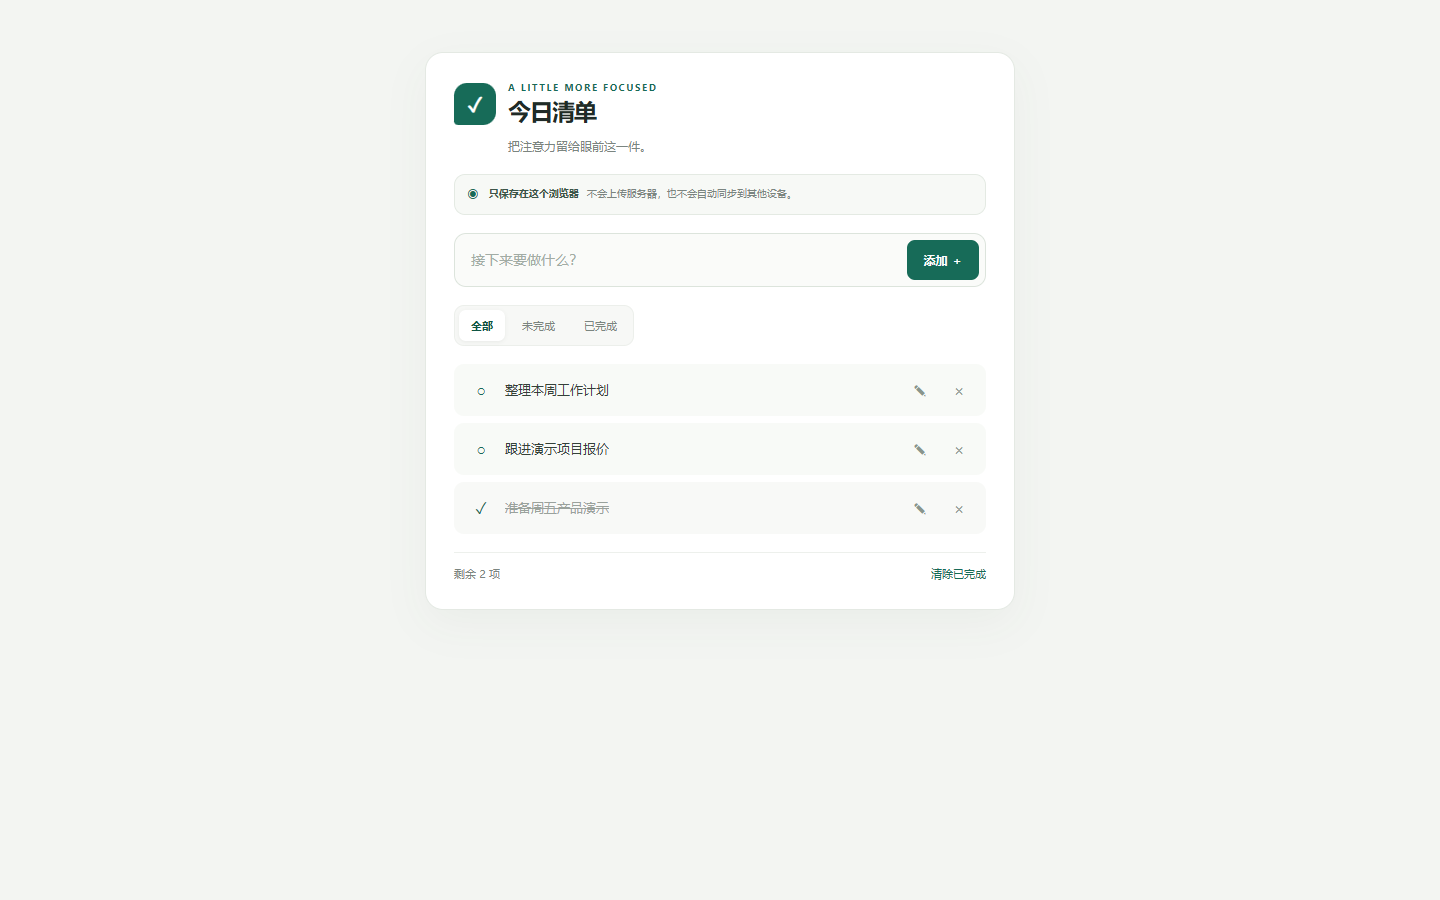
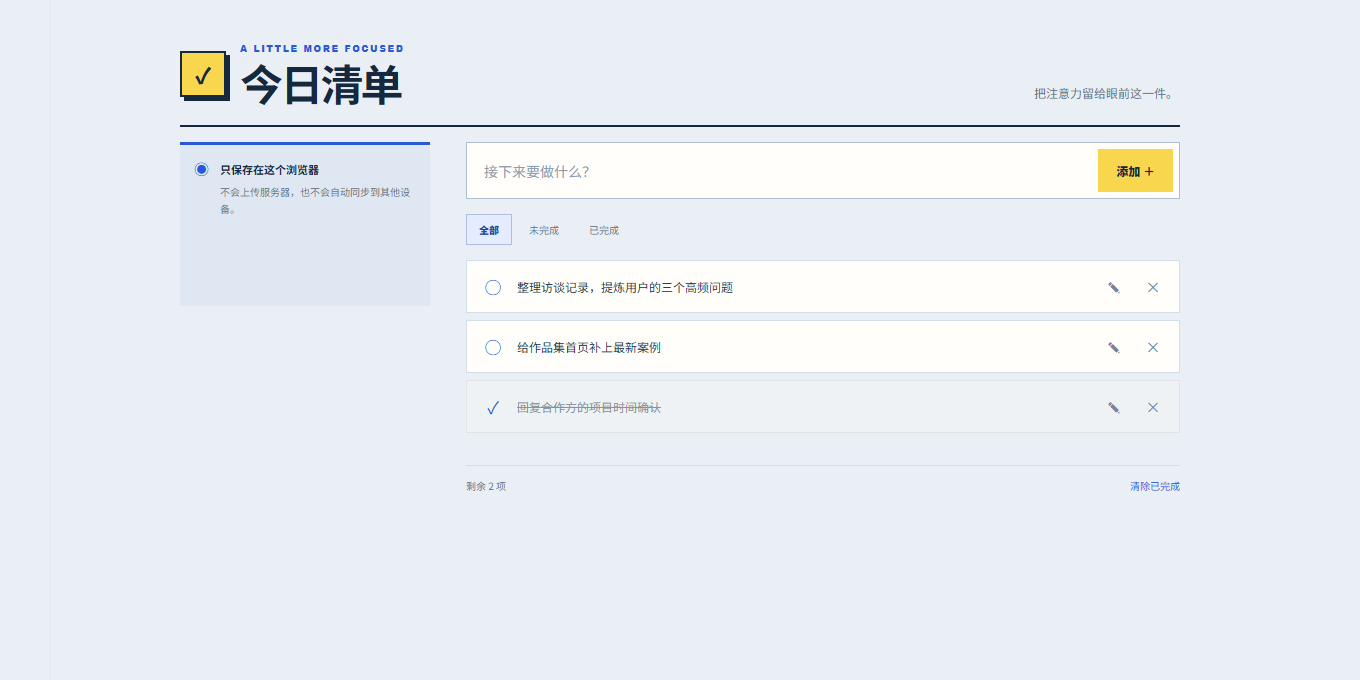
Redesign daily todo workspace

diff --git a/style.css b/style.css
@@ -1,73 +1,91 @@
 :root {
-    --ink: #202b27;
-    --muted: #7b8580;
-    --line: #e4e9e3;
-    --paper: #fff;
-    --canvas: #f3f5f2;
-    --green: #176b58;
-    --green-deep: #105543;
-    --green-pale: #edf5ef;
-    --red: #b84d43;
-    font-family: -apple-system, BlinkMacSystemFont, "PingFang SC", "Microsoft YaHei", "Segoe UI", sans-serif;
+  --ink: #15293e;
+  --muted: #66778a;
+  --line: #d4deea;
+  --paper: #fffefa;
+  --canvas: #e9eff5;
+  --blue: #2859d7;
+  --blue-dark: #173f9f;
+  --blue-pale: #e5ecff;
+  --lemon: #f8d64e;
+  --red: #ac463d;
+  font-family: "Noto Sans SC", "PingFang SC", "Microsoft YaHei", sans-serif;
 }
-
 * { box-sizing: border-box; margin: 0; padding: 0; }
-body { min-height: 100vh; padding: 52px 18px; background: var(--canvas); color: var(--ink); -webkit-font-smoothing: antialiased; }
+body {
+  min-height: 100vh; padding: 42px 26px; color: var(--ink); -webkit-font-smoothing: antialiased;
+  background:
+    linear-gradient(90deg, transparent 0 49px, #2859d70a 50px, transparent 51px),
+    var(--canvas);
+}
 button, input { font: inherit; }
-button:focus-visible, input:focus-visible { outline: 3px solid #9ac6b2; outline-offset: 2px; }
-.container { width: min(590px, 100%); margin: 0 auto; padding: 28px; display: flex; flex-direction: column; gap: 18px; background: var(--paper); border: 1px solid var(--line); border-radius: 18px; box-shadow: 0 14px 42px #263b2f0b; }
-.app-header { padding-bottom: 2px; }
-.heading-lockup { display: flex; align-items: center; gap: 12px; }
-.brand-mark { width: 42px; height: 42px; display: grid; place-items: center; border-radius: 13px 13px 13px 4px; color: white; background: var(--green); font-size: 20px; font-weight: 700; }
-.eyebrow { margin-bottom: 3px; color: var(--green); font-size: 9px; font-weight: 700; letter-spacing: .18em; }
-h1 { color: var(--ink); font-size: 23px; letter-spacing: -.045em; }
-.subheading { margin: 12px 0 0 54px; color: var(--muted); font-size: 12px; }
-.storage-note { display: flex; align-items: flex-start; gap: 10px; padding: 11px 12px; border: 1px solid #e4eae3; border-radius: 11px; background: #f7f9f6; }
-.storage-icon { flex: none; color: var(--green); font-size: 14px; line-height: 1.2; }
+button:focus-visible, input:focus-visible { outline: 3px solid #7595ec; outline-offset: 2px; }
+.container {
+  width: min(1000px, 100%); margin: 0 auto; display: grid; grid-template-columns: 250px minmax(0,1fr);
+  grid-template-areas: "header header" "storage input" "storage filters" "storage list" "storage status";
+  align-items: start; column-gap: 36px; row-gap: 15px;
+}
+.app-header { grid-area: header; display: flex; align-items: end; justify-content: space-between; gap: 22px; padding: 0 0 20px; border-bottom: 2px solid var(--ink); }
+.heading-lockup { display: flex; align-items: center; gap: 14px; }
+.brand-mark { width: 46px; height: 46px; display: grid; place-items: center; color: var(--ink); background: var(--lemon); border: 2px solid var(--ink); font-size: 22px; font-weight: 800; box-shadow: 4px 4px 0 var(--ink); }
+.eyebrow { margin-bottom: 5px; color: var(--blue); font: 800 9px Arial, sans-serif; letter-spacing: .19em; }
+h1 { color: var(--ink); font-size: clamp(29px, 4vw, 43px); line-height: 1.05; letter-spacing: -.065em; }
+.subheading { margin: 0 2px 4px 0; color: var(--muted); font-size: 12px; }
+.storage-note {
+  grid-area: storage; min-height: 164px; display: flex; align-items: flex-start; gap: 11px;
+  padding: 15px 14px; border-top: 3px solid var(--blue); background: #dfe8f2;
+}
+.storage-icon { flex: none; color: var(--blue); font-size: 15px; line-height: 1.2; }
 .storage-content { flex: 1; min-width: 0; }
-.storage-note p { display: flex; flex-wrap: wrap; gap: 4px 8px; color: var(--muted); font-size: 10px; line-height: 1.55; }
-.storage-note strong { color: #3c5548; font-size: 10px; }
-.storage-note.warning { border-color: #f0d8ca; background: #fff7f1; }
+.storage-note p { display: flex; flex-direction: column; gap: 6px; color: var(--muted); font-size: 10px; line-height: 1.65; }
+.storage-note strong { color: var(--ink); font-size: 11px; }
+.storage-note.warning { border-color: #d18a58; background: #fff0e4; }
 .storage-note.warning .storage-icon, .storage-note.warning strong { color: #9a4b34; }
-.reset-storage-btn { margin-top: 8px; padding: 5px 8px; border: 1px solid #e7c5b8; border-radius: 6px; background: #fff; color: #914a37; font-size: 10px; cursor: pointer; }
-.reset-storage-btn:hover { border-color: #c9846d; background: #fffaf7; }
-.input-area { display: flex; gap: 9px; padding: 6px; border: 1px solid #dce4dc; border-radius: 12px; background: #fafbf9; transition: .16s ease; }
-.input-area:focus-within { border-color: #9cbfac; box-shadow: 0 0 0 3px #176b5810; }
-.input-area input { flex: 1; min-width: 0; padding: 0 10px; border: 0; outline: 0; background: transparent; color: var(--ink); font-size: 14px; }
-.input-area input::placeholder { color: #a2aca5; }
-.input-area button { min-height: 40px; padding: 0 16px; border: 0; border-radius: 8px; background: var(--green); color: white; font-size: 12px; font-weight: 600; cursor: pointer; transition: .16s ease; }
-.input-area button:hover { background: var(--green-deep); }
-.filter-area { display: flex; align-items: center; gap: 5px; align-self: flex-start; padding: 4px; border: 1px solid #ecefeb; border-radius: 10px; background: #f7f8f6; }
-.filter-btn { min-height: 31px; padding: 0 12px; border: 0; border-radius: 7px; color: var(--muted); background: transparent; font-size: 11px; cursor: pointer; transition: .16s ease; }
-.filter-btn:hover { color: var(--green); }
-.filter-btn.active { color: var(--green-deep); background: white; font-weight: 600; box-shadow: 0 1px 4px #24382d12; }
-.todo-list { display: flex; flex-direction: column; gap: 7px; min-height: 0; list-style: none; }
-.empty-hint { padding: 19px 13px; border: 1px dashed #e1e7e0; border-radius: 11px; color: #929c95; text-align: center; font-size: 12px; }
-.todo-item { display: flex; min-width: 0; align-items: center; gap: 9px; padding: 10px 11px; border: 1px solid transparent; border-radius: 10px; background: #f8faf7; transition: .16s ease; }
-.todo-item:hover { border-color: #e7ece6; background: #f4f8f3; }
-.toggle-btn, .edit-btn, .delete-btn, .confirm-btn, .cancel-btn { flex: none; min-width: 30px; min-height: 30px; display: grid; place-items: center; padding: 3px; border: 0; border-radius: 7px; background: transparent; color: #89958d; cursor: pointer; }
-.toggle-btn { color: var(--green); font-size: 16px; }
-.toggle-btn:hover, .edit-btn:hover { color: var(--green); background: #e9f2e9; }
-.todo-text { flex: 1; min-width: 0; color: #344139; font-size: 13px; line-height: 1.55; overflow-wrap: anywhere; }
-.todo-item.completed { background: #f8f9f7; }
-.todo-item.completed .todo-text { color: #9aa29c; text-decoration: line-through; }
+.reset-storage-btn { margin-top: 9px; padding: 6px 8px; color: #914a37; border: 1px solid #e7c5b8; border-radius: 2px; background: #fff; font-size: 10px; cursor: pointer; }
+.input-area { grid-area: input; display: flex; gap: 8px; padding: 6px; border: 1px solid #aebdd0; background: var(--paper); }
+.input-area:focus-within { border-color: var(--blue); box-shadow: 0 0 0 3px #2859d714; }
+.input-area input { flex: 1; min-width: 0; padding: 0 11px; color: var(--ink); border: 0; outline: 0; background: transparent; font-size: 14px; }
+.input-area input::placeholder { color: #8b9aad; }
+.input-area button { min-height: 43px; padding: 0 18px; color: var(--ink); border: 0; background: var(--lemon); font-size: 12px; font-weight: 800; cursor: pointer; transition: .15s ease; }
+.input-area button:hover { background: #f1c829; transform: translateY(-1px); }
+.filter-area { grid-area: filters; display: flex; align-items: center; gap: 4px; }
+.filter-btn { min-height: 31px; padding: 0 12px; color: var(--muted); border: 1px solid transparent; background: transparent; font-size: 10px; cursor: pointer; }
+.filter-btn:hover { color: var(--blue); }
+.filter-btn.active { color: var(--blue-dark); border-color: #aebee2; background: var(--blue-pale); font-weight: 800; }
+.todo-list { grid-area: list; display: flex; flex-direction: column; gap: 7px; min-height: 190px; list-style: none; }
+.empty-hint { padding: 22px 14px; color: var(--muted); border: 1px dashed #b7c5d5; background: #f7f9fb; text-align: center; font-size: 12px; }
+.todo-item { display: flex; min-width: 0; align-items: center; gap: 9px; padding: 10px 11px; border: 1px solid #d4deea; background: var(--paper); transition: .15s ease; }
+.todo-item:hover { border-color: #98adda; transform: translateX(2px); }
+.toggle-btn, .edit-btn, .delete-btn, .confirm-btn, .cancel-btn { flex: none; min-width: 30px; min-height: 30px; display: grid; place-items: center; padding: 3px; color: #74849a; border: 0; background: transparent; cursor: pointer; }
+.toggle-btn { color: var(--blue); font-size: 17px; }
+.toggle-btn:hover, .edit-btn:hover { color: var(--blue-dark); background: var(--blue-pale); }
+.todo-text { flex: 1; min-width: 0; color: #263b51; font-size: 12px; line-height: 1.6; overflow-wrap: anywhere; }
+.todo-item.completed { border-color: #e0e4e8; background: #eff2f4; }
+.todo-item.completed .todo-text { color: #8793a0; text-decoration: line-through; }
 .edit-btn, .delete-btn, .confirm-btn, .cancel-btn { font-size: 15px; }
 .delete-btn:hover, .cancel-btn:hover { color: var(--red); background: #fff0ee; }
-.confirm-btn:hover { color: var(--green); background: #e9f2e9; }
-.edit-input { flex: 1; min-width: 0; min-height: 36px; padding: 6px 9px; border: 1px solid #9cbfac; border-radius: 7px; background: white; font-size: 13px; }
-.status-bar { display: flex; justify-content: space-between; align-items: center; gap: 12px; padding-top: 13px; border-top: 1px solid #edf0ec; color: var(--muted); font-size: 11px; }
-.clear-btn { border: 0; color: var(--green); background: transparent; font-size: 11px; cursor: pointer; }
+.confirm-btn:hover { color: var(--blue); background: var(--blue-pale); }
+.edit-input { flex: 1; min-width: 0; min-height: 36px; padding: 6px 9px; border: 1px solid #91a9e8; background: white; font-size: 13px; }
+.status-bar { grid-area: status; display: flex; justify-content: space-between; align-items: center; gap: 12px; padding: 12px 0 0; border-top: 1px solid var(--line); color: var(--muted); font-size: 10px; }
+.clear-btn { color: var(--blue); border: 0; background: transparent; font-size: 10px; cursor: pointer; }
 .clear-btn:hover { color: var(--red); }
-
-@media (max-width: 520px) {
-    body { padding: 20px 10px; }
-    .container { gap: 15px; padding: 19px 15px; border-radius: 15px; }
-    h1 { font-size: 21px; }
-    .storage-note p { display: block; }
-    .storage-note strong { display: block; margin-bottom: 2px; }
-    .filter-area { width: 100%; }
-    .filter-btn { flex: 1; padding: 0 7px; }
-    .todo-item { gap: 5px; padding: 8px 7px; }
-    .toggle-btn, .edit-btn, .delete-btn, .confirm-btn, .cancel-btn { min-width: 28px; }
-    .status-bar { align-items: flex-start; }
+@media (max-width: 700px) {
+  body { padding: 22px 14px; background: var(--canvas); }
+  .container { width: min(590px,100%); grid-template-columns: 1fr; grid-template-areas: "header" "storage" "input" "filters" "list" "status"; row-gap: 13px; }
+  .app-header { align-items: flex-start; flex-direction: column; gap: 10px; padding-bottom: 15px; }
+  .subheading { margin-left: 60px; }
+  .storage-note { min-height: 0; padding: 11px 12px; }
+  .storage-note p { display: block; }
+  .storage-note strong { display: block; margin-bottom: 2px; }
+  .todo-list { min-height: 0; }
+}
+@media (max-width: 390px) {
+  body { padding: 16px 10px; }
+  .heading-lockup { gap: 12px; }
+  .brand-mark { width: 42px; height: 42px; }
+  h1 { font-size: 28px; }
+  .subheading { font-size: 11px; }
+  .filter-btn { flex: 1; padding: 0 7px; }
+  .todo-item { gap: 5px; padding: 8px 7px; }
+  .toggle-btn, .edit-btn, .delete-btn, .confirm-btn, .cancel-btn { min-width: 28px; }
 }

diff --git a/index.html b/index.html
@@ -3,7 +3,7 @@
 <head>
     <meta charset="UTF-8">
     <meta name="viewport" content="width=device-width, initial-scale=1.0">
-    <meta name="theme-color" content="#f3f5f2">
+    <meta name="theme-color" content="#e9eff5">
     <meta name="description" content="轻量、清晰的中文待办清单。无需注册，数据保存在当前浏览器。">
     <title>今日清单 · 待办</title>
     <link rel="stylesheet" href="style.css">
